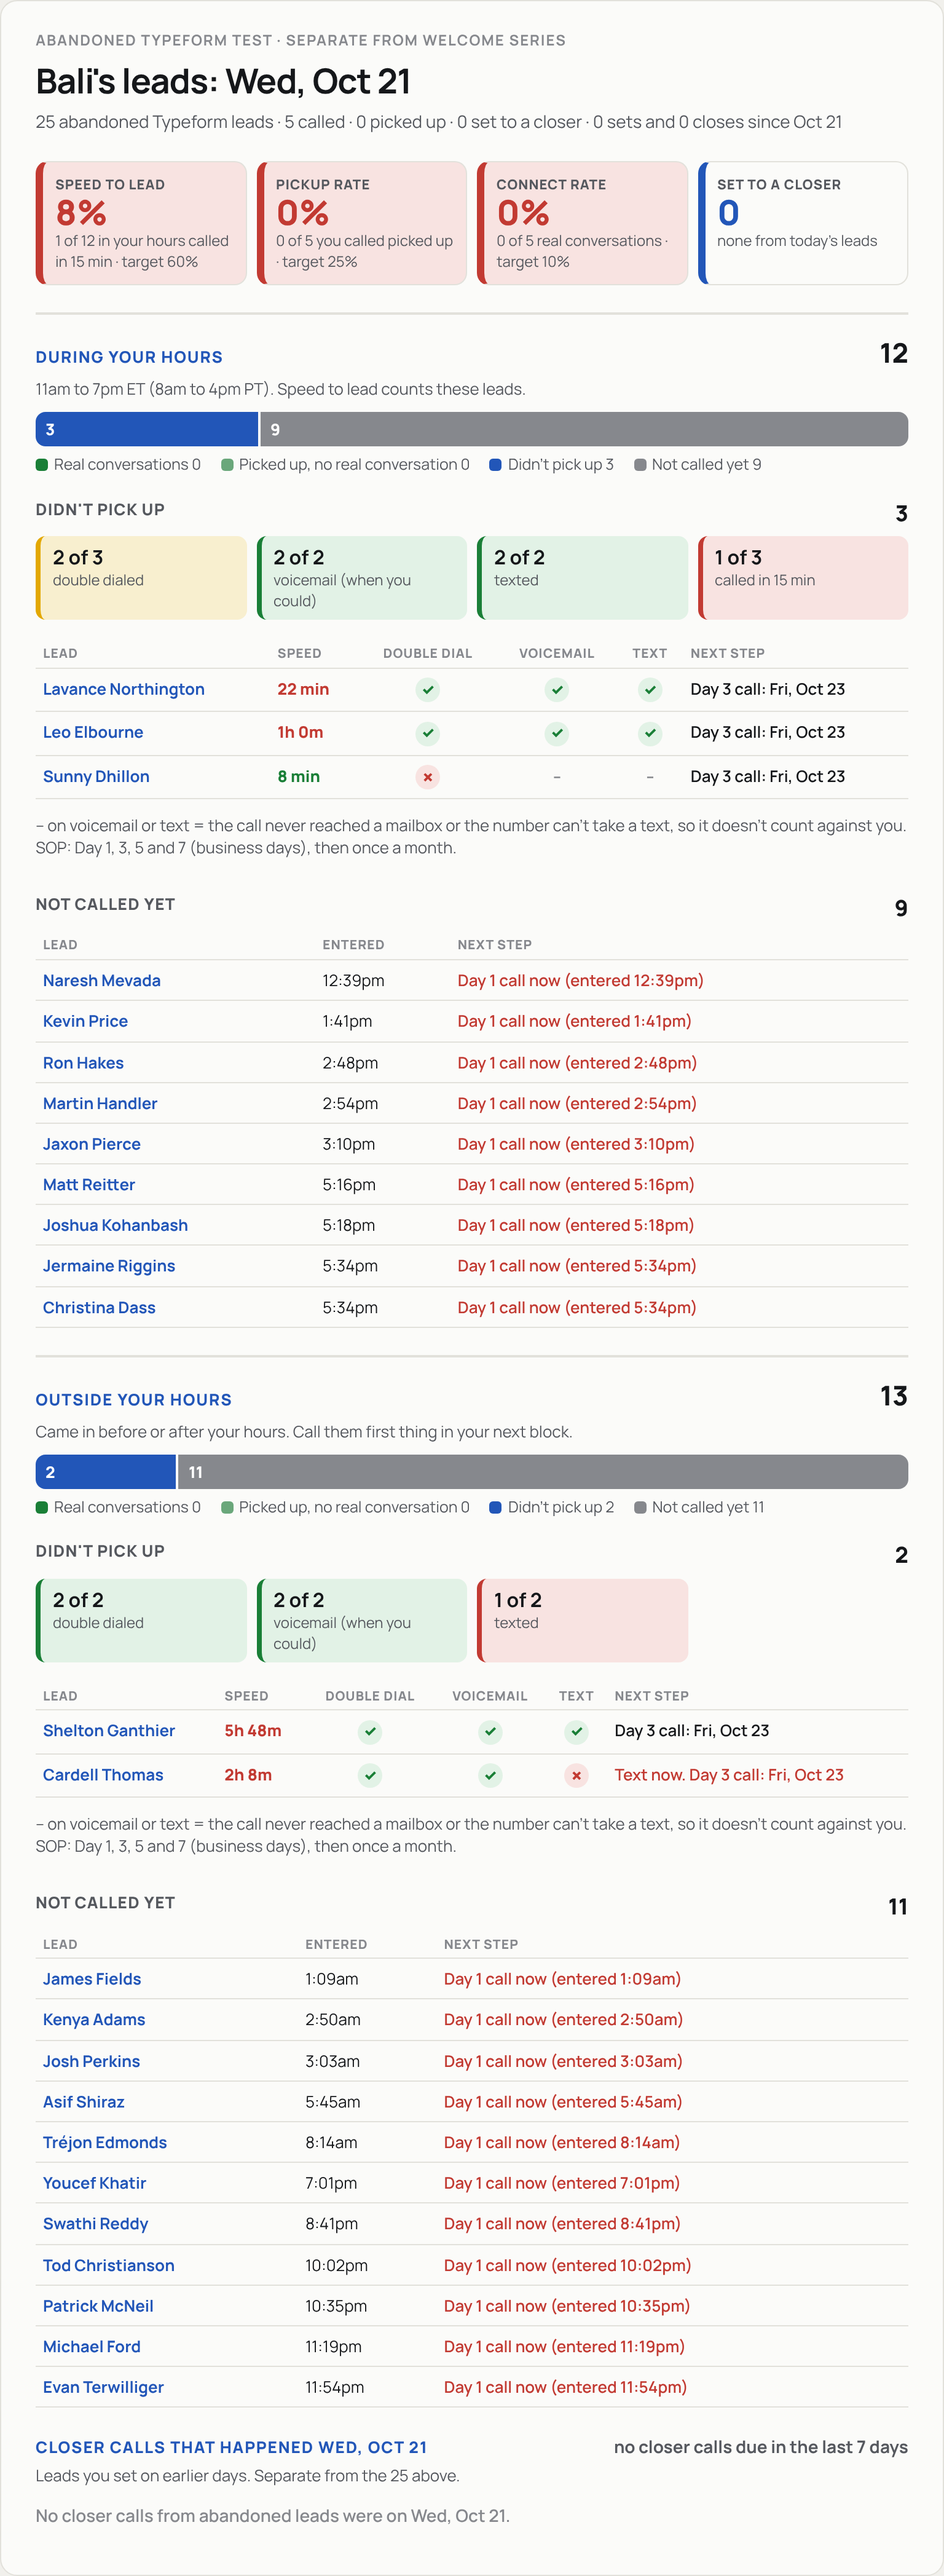
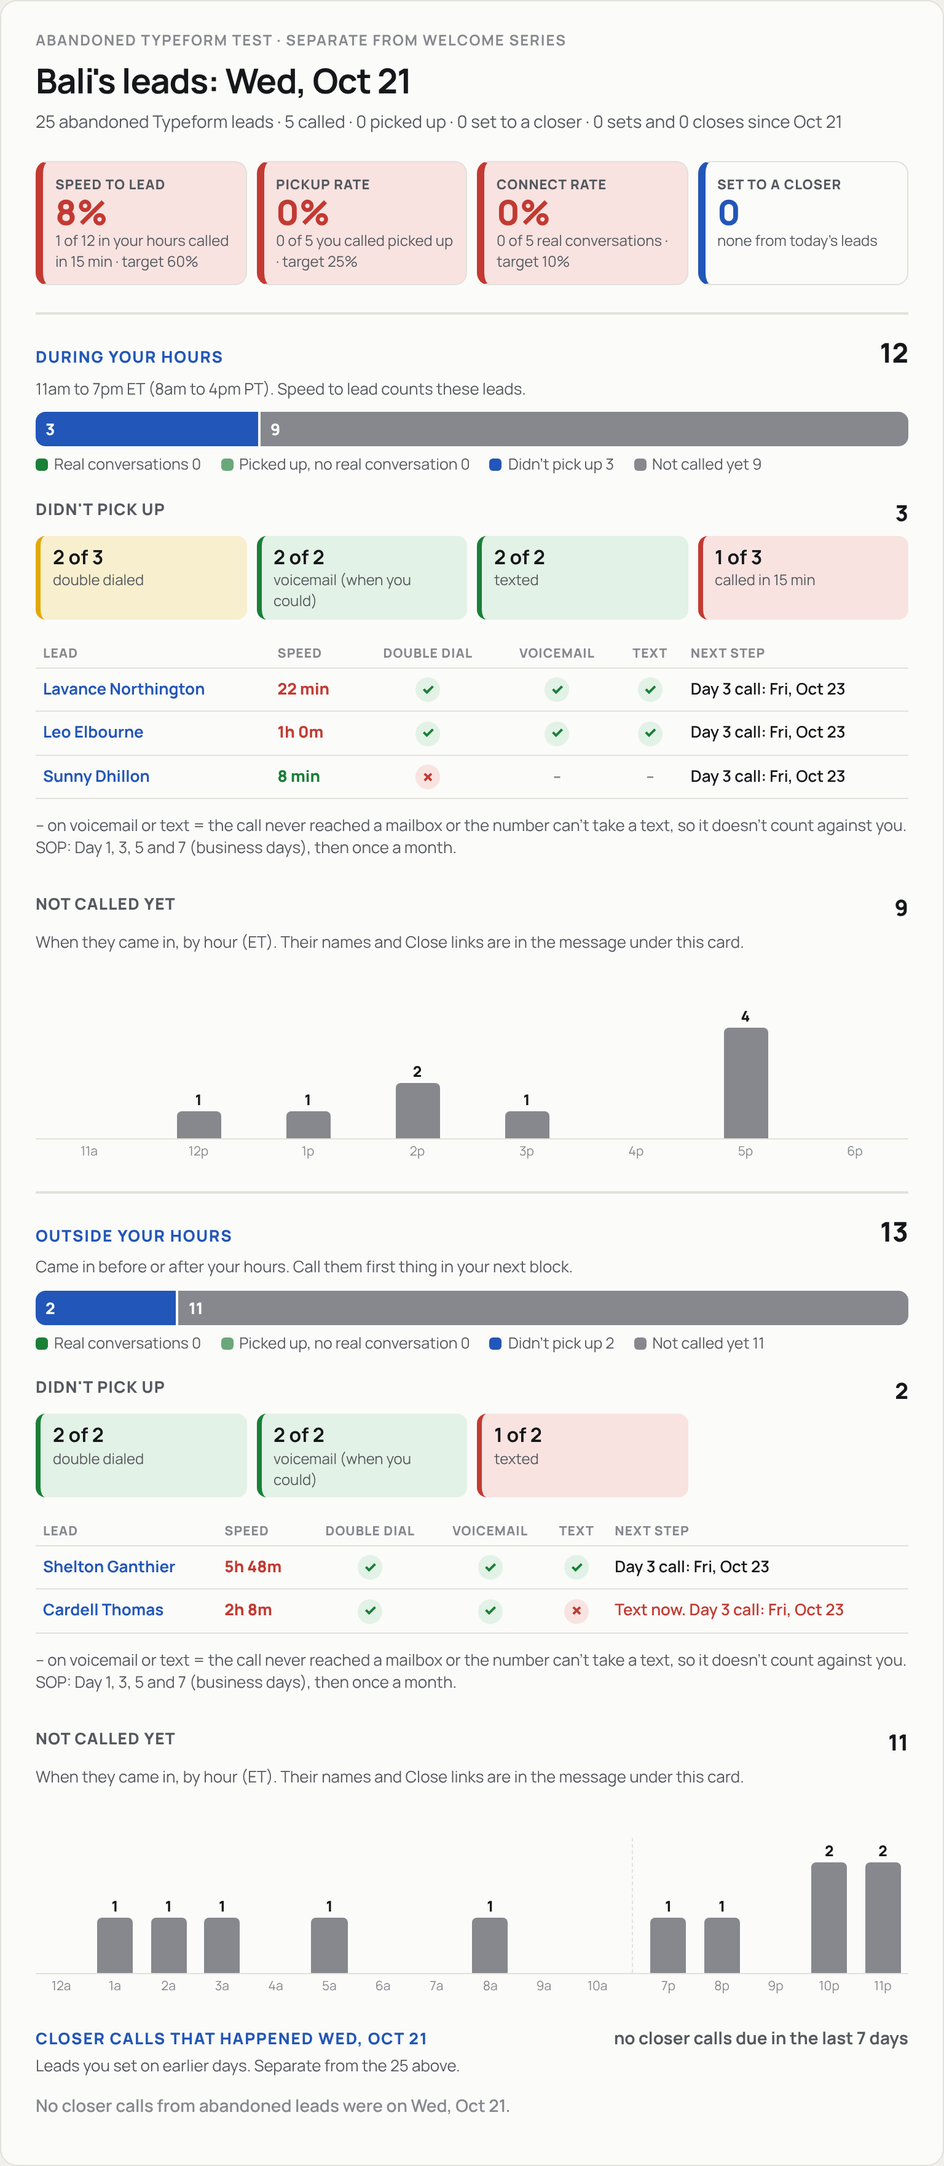
Abandoned Typeform card: not-called leads as an hourly bar chart
Claude-Session: https://claude.ai/code/session_01BP1BE6pQipixhMf1aeMRqA

Changed region(s): [[0.0312, 0.0, 0.9688, 0.9989], [0.75, 0.4682, 0.8125, 0.5306], [0.875, 0.7491, 0.9062, 0.7804]]

diff --git a/kit/abandoned_build.py b/kit/abandoned_build.py
@@ -63,6 +63,13 @@ a{color:var(--accent);font-weight:700;text-decoration:none}
 .grp h3{margin:0;font-size:13px;font-weight:800;letter-spacing:.05em;text-transform:uppercase;color:var(--ink2);display:flex;justify-content:space-between}
 .grp h3 span{font-size:18px;color:var(--ink);letter-spacing:0}
 section.part{border-top:2px solid var(--line);padding-top:16px}
+.hchart{display:flex;align-items:flex-end;gap:2px;height:130px;border-bottom:1px solid var(--line);padding-top:4px}
+.hc{flex:1;display:flex;flex-direction:column;align-items:center;justify-content:flex-end;min-width:0;height:100%;position:relative}
+.hc.gap{margin-left:14px} .hc.gap::before{content:"";position:absolute;left:-9px;top:20px;bottom:0;border-left:1px dashed var(--line)}
+.hc b{font-size:12px;font-weight:800;color:var(--ink);font-variant-numeric:tabular-nums;min-height:16px}
+.hc i{display:block;width:70%;max-width:36px;background:var(--ink3);border-radius:4px 4px 0 0}
+.hc em{position:absolute;bottom:-18px;font-style:normal;font-size:10.5px;color:var(--ink3)}
+.grp .hchart{margin-bottom:20px}
 .wrap{overflow-x:auto} .none{color:var(--ink3);font-weight:600}
 @media (max-width:560px){.tiles,.chips{grid-template-columns:1fr 1fr}}
 """
@@ -101,7 +108,21 @@ def hand(st):
 
 def nxt(r): return f'<td class="nx{" urg" if r.get("urgent") else ""}">{e(r["next"])}</td>'
 
-def group_tables(L, T, speed_chip=True):
+def hour_of(r):
+    return datetime.datetime.strptime(r["entered"], "%I:%M%p").hour
+
+def hour_chart(rows, hours):
+    """Vertical bars: how many not-called leads came in each hour of the block, with the count on each bar."""
+    c = {h: 0 for h in hours}
+    for r in rows: c[hour_of(r)] = c.get(hour_of(r), 0) + 1
+    top = max(c.values()) or 1; cols = []
+    for i, h in enumerate(hours):
+        gap = ' gap' if i and h != hours[i - 1] + 1 else ''
+        n = c[h]; lab = f"{h % 12 or 12}{'a' if h < 12 else 'p'}"
+        cols.append(f'<div class="hc{gap}"><b>{n or ""}</b><i style="height:{round(90 * n / top)}px"></i><em>{lab}</em></div>')
+    return f'<div class="hchart">{"".join(cols)}</div>'
+
+def group_tables(L, T, speed_chip=True, hours=range(24)):
     """The where-they-landed bar and one table per group, for one set of leads."""
     G = {k: [r for r in L if r["group"] == k] for k, _ in GROUPS}
     sets = [r for r in G["real"] if r.get("steps") is not None]
@@ -134,9 +155,9 @@ def group_tables(L, T, speed_chip=True):
                    f'<p class="lead" style="margin-top:6px">– on voicemail or text = the call never reached a mailbox or the number '
                    f"can't take a text, so it doesn't count against you. SOP: Day 1, 3, 5 and 7 (business days), then once a month.</p></div>")
     if G["notcalled"]:
-        rows = "".join(f'<tr><td>{link(r)}</td><td>{e(r["entered"])}</td>{nxt(r)}</tr>' for r in G["notcalled"])
         out.append(f'<div class="grp"><h3>Not called yet <span>{len(G["notcalled"])}</span></h3>'
-                   f'<div class="wrap"><table><tr><th>Lead</th><th>Entered</th><th>Next step</th></tr>{rows}</table></div></div>')
+                   f'<p class="lead">When they came in, by hour (ET). Their names and Close links are in the message under this card.</p>'
+                   + hour_chart(G["notcalled"], hours) + "</div>")
     return "".join(out)
 
 def build_html(m):
@@ -163,7 +184,7 @@ def build_html(m):
                               (False, "Outside your hours", "Came in before or after your hours. Call them first thing in your next block.")):
         P = [r for r in L if bool(r.get("in_hours", True)) == part]
         sec.append(f'<section class="part"><h2>{title} <span>{len(P)}</span></h2><p class="lead">{e(note)}</p>'
-                   + (group_tables(P, T, speed_chip=part) if P else '<p class="none">No leads.</p>') + "</section>")
+                   + (group_tables(P, T, speed_chip=part, hours=[h for h in range(24) if (H[0] <= h < H[1]) == part]) if P else '<p class="none">No leads.</p>') + "</section>")
     # follow-up calls due today on earlier leads (Day 3, 5, 7, monthly)
     fu = m["followups"]
     if fu["due"]:

diff --git a/docs/ABANDONED-TYPEFORM.md b/docs/ABANDONED-TYPEFORM.md
@@ -46,7 +46,7 @@ Talks to Bali as "you". Top to bottom:
    - **Real conversations** (same rule as Welcome Series): the result (set to which closer and when, booked on his calendar, call back later, disqualified) and, for closer sets, the four handoff steps (done, missed, still ahead, or not owed). Next step: the first missed step, else the next one due, else the closer call. Call back later uses his open Close task date, or asks him to set one.
    - **Picked up, no real conversation:** what happened and his next Close task, or "Set a next step in Close".
    - **Didn't pick up:** four equal tiles above the table (double dialed, voicemail, texted, called in 15 min; the last one only in the in-hours block), then double dial, voicemail and text marks (a dash when the call never reached a mailbox or the number can't take a text). Next step: "Text now" when he missed the text, then the Day 3 call date (2 business days after Day 1).
-   - **Not called yet:** when the lead entered, and "Day 1 call now".
+   - **Not called yet (Sheila, Oct 22):** no name list. A bar chart of how many came in each hour (ET) of that block, with the count on each bar and the total in the heading. The names and Close links are in the links message under the card.
    - A Do Not Contact lead's next step is "None, Do Not Contact".
 5. **Follow-up calls due D:** earlier leads on their Day 3, 5, 7 or monthly call (rules below), shown only when any were due.
 6. **Closer calls that happened D:** leads he set on earlier days whose closer call was on D, with the closer, whether they showed and the handoff steps; the 7-day show rate in the heading.
